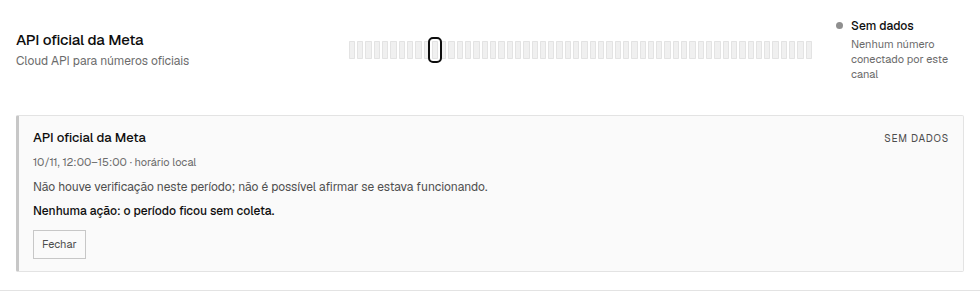
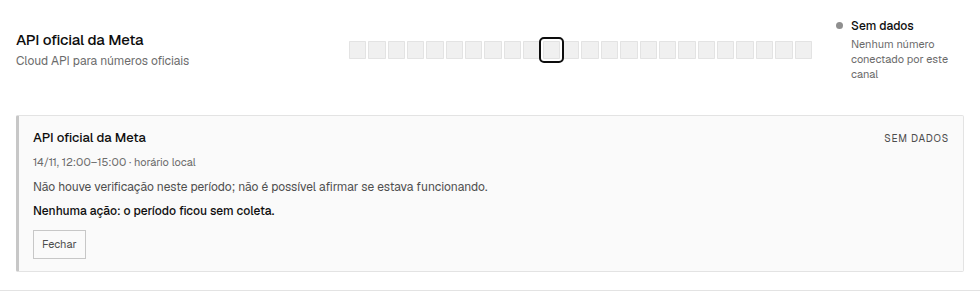
feat(status): limita o historico a 3 dias
O status passa a mostrar 24 faixas de 3 horas, cobrindo os ultimos 3 dias. O detalhe de cada faixa continua com periodo, estado, significado e recomendacao. Atualiza testes, textos, capturas e o tamanho do historico no backend.

diff --git a/manager/dist/status/status.js b/manager/dist/status/status.js
@@ -1,7 +1,7 @@
 /*
  * WhatsAI: pagina publica de status.
  *
- * Le GET /status da API (sem chave) e desenha o estado atual, as faixas de 7 dias e os incidentes. O endpoint
+ * Le GET /status da API (sem chave) e desenha o estado atual, as faixas de 3 dias e os incidentes. O endpoint
  * agrega somente dados de sistema e WhatsApp, sem nomes, numeros, mensagens ou chaves. A pagina atualiza a cada
  * cinco minutos; nao ha timer no servidor.
  */
@@ -188,7 +188,7 @@
     detail.hidden = true;
     detail.setAttribute('aria-live', 'polite');
 
-    for (var i = 0; i < 56; i++) {
+    for (var i = 0; i < 24; i++) {
       var bucket = list[i];
       var state = (bucket && bucket.components && bucket.components[componentId]) || 'no_data';
       if (!STATES[state]) state = 'no_data';
@@ -205,7 +205,7 @@
     }
 
     var wrap = el('div', 'st-bars');
-    var active = 55;
+    var active = 23;
 
     function setActive(index, focus) {
       active = Math.max(0, Math.min(index, slots.length - 1));
@@ -265,7 +265,7 @@
       });
     wrap.setAttribute(
       'aria-label',
-      'Histórico de 7 dias de ' +
+      'Histórico de 3 dias de ' +
         componentName +
         ': ' +
         parts.join(', ') +
@@ -280,7 +280,7 @@
     var head = el('div', 'st-group-head');
     head.append(el('h2', null, name));
     var range = el('div', 'st-range');
-    range.append(el('span', null, '7 dias atrás'), el('span', null, 'Agora'));
+    range.append(el('span', null, '3 dias atrás'), el('span', null, 'Agora'));
     head.append(range);
     return head;
   }

diff --git a/manager/dist/status/index.html b/manager/dist/status/index.html
@@ -21,7 +21,7 @@
     <link rel="preload" href="/assets/fonts/geist-latin-wght-normal.woff2?v=1" as="font" type="font/woff2" crossorigin />
     <link rel="stylesheet" href="/assets/geist.css?v=3" />
     <link rel="stylesheet" href="/assets/tokens.css?v=3" />
-    <link rel="stylesheet" href="/status/status.css?v=5" />
+    <link rel="stylesheet" href="/status/status.css?v=6" />
   </head>
   <body class="st-page">
     <a class="st-skip" href="#conteudo">Pular para o conteúdo</a>
@@ -128,7 +128,7 @@
               <summary>Como consumir o status de forma programática?</summary>
               <p>
                 O JSON público fica em <a href="https://evolution-api-x93o.onrender.com/status">/status</a> na API. Não
-                exige chave e devolve estado atual, componentes, histórico de 7 dias e incidentes recentes.
+                exige chave e devolve estado atual, componentes, histórico de 3 dias e incidentes recentes.
               </p>
             </details>
             <details>
@@ -174,6 +174,6 @@
     </footer>
 
     <noscript>Ative o JavaScript para ver o status atualizado.</noscript>
-    <script src="/status/status.js?v=8" defer></script>
+    <script src="/status/status.js?v=9" defer></script>
   </body>
 </html>

diff --git a/src/api/services/public-status.core.ts b/src/api/services/public-status.core.ts
@@ -91,7 +91,7 @@ const COMPONENT_NAMES: Record<string, string> = {
 };
 
 const BUCKET_MS = 3 * 60 * 60 * 1000;
-const HISTORY_BUCKETS = 56;
+const HISTORY_BUCKETS = 24;
 const INCIDENT_WINDOW_MS = 90 * 24 * 60 * 60 * 1000;
 const MAX_INCIDENTS = 50;
 const DEFAULT_CACHE_TTL_MS = 5 * 60 * 1000;
@@ -531,7 +531,7 @@ export class PublicStatusService {
       history: publicHistory(this.store, now),
       incidents: publicIncidents(this.store, now),
       nextCheckSeconds: 300,
-      historyDays: 7,
+      historyDays: 3,
       bucketHours: 3,
       notes: [...notes(), ...(snapshotFailed ? ['Não foi possível ler todos os componentes agora.'] : [])],
     };

diff --git a/manager/dist/status/status.css b/manager/dist/status/status.css
@@ -1,6 +1,6 @@
 /*
  * WhatsAI: pagina publica de status.
- * A composicao segue a ideia do status.opencode.ai (estado geral, componentes com faixa de 7 dias, incidentes e
+ * A composicao segue a ideia do status.opencode.ai (estado geral, componentes com faixa de 3 dias, incidentes e
  * metodologia), com os tokens, a tipografia e a paleta semantica do WhatsAI. Sem logo, texto, imagem ou CSS de
  * terceiros.
  */
@@ -345,7 +345,7 @@ body.st-page {
 
 .st-bars {
   display: grid;
-  grid-template-columns: repeat(56, minmax(0, 1fr));
+  grid-template-columns: repeat(24, minmax(0, 1fr));
   gap: 2px;
   height: 18px;
   align-items: stretch;

diff --git a/test/unit/public-status.test.ts b/test/unit/public-status.test.ts
@@ -121,7 +121,7 @@ describe('public status', () => {
     assert.equal(componentState(data, 'api'), 'operational');
     assert.equal(componentState(data, 'database'), 'operational');
     assert.equal(componentState(data, 'site'), 'operational');
-    assert.equal(data.history.length, 56);
+    assert.equal(data.history.length, 24);
     assert.equal(data.history.at(-1)?.components['whatsapp-web'], 'operational');
     const json = JSON.stringify(data);
     assert.equal(json.includes('Cliente Confidencial'), false);

diff --git a/README-WHATSAI.md b/README-WHATSAI.md
@@ -292,7 +292,7 @@ Página pública: `/seguranca` (`manager/dist/landing/seguranca.html`), ligada p
 
 A aba **Observabilidade** do manager (`/manager/observability` ou `/manager/instance/:instanceId/observability`) mostra, em um só lugar, storage/consumo/limites de Neon, Render, Vercel e GitHub Actions. O endpoint `GET /observability` exige o header `apikey` (chave global) e usa cache de 60 s; `?refresh=1` força a consulta. Ele não grava nada, mas o cartão **Sistema** lê contagens do Postgres e a saúde OpenAI lê credenciais/bots. A rota antiga `/observability` agora redireciona (308) para a página pública de status.
 
-O **status público** fica em `/status` (página no site) e em `GET /status` (JSON na API), sem chave. Ele lê apenas as visões locais **Sistema** e **WhatsApp**: API, banco, site/painel, WhatsApp Web e API oficial da Meta, sempre em agregado, sem nomes de clientes, números, mensagens, tokens ou chaves. O resultado fica em cache por 5 minutos; o histórico de 7 dias (faixas de 3 horas) e os incidentes de 90 dias são gravados em uma linha de `GlobalSetting` (`public-status:v1`), no máximo uma vez a cada cinco minutos, quando o estado muda ou começa uma faixa nova de 3 horas. Não há timer: a verificação acontece quando alguém consulta a página ou o JSON. Por isso, o histórico começa na primeira consulta e períodos sem consulta aparecem como **Sem dados**, em vez de disponibilidade inventada. Se a leitura falhar, a página mantém o site no ar e não inventa dados: o banco ou o canal sem resposta aparecem como indisponíveis ou sem dados; se a verificação inteira não puder ser montada, cai no fallback degradado. Ela nunca expõe o erro interno. A **Observabilidade do manager continua privada** e é o lugar para diagnosticar Neon, Render, Vercel, OpenAI e consumo. No topo, o estado atual aparece em um cartão com a cor da operação e uma recomendação curta; cada faixa de 3 horas abre o período, o estado, o significado e a ação recomendada.
+O **status público** fica em `/status` (página no site) e em `GET /status` (JSON na API), sem chave. Ele lê apenas as visões locais **Sistema** e **WhatsApp**: API, banco, site/painel, WhatsApp Web e API oficial da Meta, sempre em agregado, sem nomes de clientes, números, mensagens, tokens ou chaves. O resultado fica em cache por 5 minutos; o histórico de 3 dias (faixas de 3 horas) e os incidentes de 90 dias são gravados em uma linha de `GlobalSetting` (`public-status:v1`), no máximo uma vez a cada cinco minutos, quando o estado muda ou começa uma faixa nova de 3 horas. Não há timer: a verificação acontece quando alguém consulta a página ou o JSON. Por isso, o histórico começa na primeira consulta e períodos sem consulta aparecem como **Sem dados**, em vez de disponibilidade inventada. Se a leitura falhar, a página mantém o site no ar e não inventa dados: o banco ou o canal sem resposta aparecem como indisponíveis ou sem dados; se a verificação inteira não puder ser montada, cai no fallback degradado. Ela nunca expõe o erro interno. A **Observabilidade do manager continua privada** e é o lugar para diagnosticar Neon, Render, Vercel, OpenAI e consumo. No topo, o estado atual aparece em um cartão com a cor da operação e uma recomendação curta; cada faixa de 3 horas abre o período, o estado, o significado e a ação recomendada.
 
 | Variável | Uso | Como obter |
 |---|---|---|
@@ -321,7 +321,7 @@ O **status público** fica em `/status` (página no site) e em `GET /status` (JS
 
 ## 11. Registro de decisões
 
-- 16/11/2026: **status público** em `/status` (página no site e JSON em `GET /status`, sem chave), no lugar da antiga página pública de Observabilidade: estado geral, grupos Atendimento e Plataforma, histórico de 7 dias em faixas de 3 horas, incidentes de 90 dias e metodologia. Lê só as visões locais Sistema e WhatsApp, em agregado, sem nomes, números, mensagens ou chaves; cache de 5 minutos e histórico em `GlobalSetting` (`public-status:v1`, sem migration), gravado quando o estado muda ou começa uma faixa nova de 3 horas, sem timer. Sem consulta, o período aparece como "Sem dados". A aba Observabilidade do manager continua privada, com a chave global. `/observability` passa a redirecionar (308) para `/status`.
+- 16/11/2026: **status público** em `/status` (página no site e JSON em `GET /status`, sem chave), no lugar da antiga página pública de Observabilidade: estado geral, grupos Atendimento e Plataforma, histórico de 3 dias em faixas de 3 horas, incidentes de 90 dias e metodologia. Lê só as visões locais Sistema e WhatsApp, em agregado, sem nomes, números, mensagens ou chaves; cache de 5 minutos e histórico em `GlobalSetting` (`public-status:v1`, sem migration), gravado quando o estado muda ou começa uma faixa nova de 3 horas, sem timer. Sem consulta, o período aparece como "Sem dados". A aba Observabilidade do manager continua privada, com a chave global. `/observability` passa a redirecionar (308) para `/status`.
 - Plano Render free por opção de custo; upgrade para Starter quando houver clientes pagantes.
 - Manager sem fonte: patches aplicados direto no bundle (seção 4).
 - Integrações habilitadas em `render.yaml`.

diff --git a/readmes/pr/status-cartao/DESIGN.md b/readmes/pr/status-cartao/DESIGN.md
@@ -5,7 +5,7 @@
 A página tinha a informação certa, mas a hierarquia estava errada:
 
 - o estado geral era um título solto, com um rótulo mono pequeno (“Verificado agora mesmo”) que parecia mais um metadado do que o estado da operação;
-- as faixas de 7 dias eram `span` com `title`. No celular, o `title` não aparece; no teclado, não havia como abrir; clicar não fazia nada;
+- as faixas de histórico eram `span` com `title`. No celular, o `title` não aparece; no teclado, não havia como abrir; clicar não fazia nada;
 - a legenda dizia o que cada cor significava, mas não o que aconteceu em um período específico.
 
 O pedido foi direto: remover o rótulo, transformar o estado atual em um cartão com cor de operação e fazer cada faixa mostrar a informação dela.
@@ -81,7 +81,7 @@ O grupo de faixas tem um único ponto de tabulação. Ao receber foco, ele leva 
 
 Cada botão tem `aria-label` com o período e o estado, `aria-pressed` para a faixa escolhida e `aria-controls` para o detalhe. O detalhe é `aria-live="polite"`.
 
-Isso evita 280 paradas de tabulação (56 faixas em 5 componentes) e mantém a navegação por teclado utilizável.
+Isso evita 120 paradas de tabulação (24 faixas em 5 componentes) e mantém a navegação por teclado utilizável.
 
 ## 7. Estados e casos de borda
 
@@ -94,7 +94,7 @@ Isso evita 280 paradas de tabulação (56 faixas em 5 componentes) e mantém a n
 ## 8. O que não foi feito
 
 - Tooltip flutuante ou popover: menos legível no celular e mais difícil de posicionar.
-- 280 botões tabuláveis: pior para quem usa teclado.
+- 120 botões tabuláveis: pior para quem usa teclado.
 - “Tudo operacional” verde para períodos sem coleta: inventaria disponibilidade.
 - Agrupar transições em um incidente ou mostrar uma nota manual: fica para a próxima evolução.
 - Monitor externo: o histórico ainda depende de alguém abrir a página; está registrado como próximo passo.

diff --git a/readmes/pr/status-cartao/README.md b/readmes/pr/status-cartao/README.md
@@ -5,7 +5,7 @@
 Duas mudanças na página pública `/status`, no mesmo PR para revisão:
 
 1. **O topo vira um cartão de estado.** Sai o rótulo “Verificado agora mesmo” e o título solto. Entra um cartão com fundo e borda na cor da operação atual, com estado, título, resumo, uma recomendação curta, o horário da atualização e a cadência de verificação.
-2. **As faixas de 7 dias passam a responder ao clique.** Cada uma das 56 faixas por componente agora abre um detalhe com o período, o estado, o que ele significa e o que fazer. O detalhe vale para faixa verde, âmbar, vermelha e cinza.
+2. **As faixas de 3 dias passam a responder ao clique.** Cada uma das 24 faixas por componente agora abre um detalhe com o período, o estado, o que ele significa e o que fazer. O detalhe vale para faixa verde, âmbar, vermelha e cinza.
 
 O detalhe abre embaixo da linha do componente, sem popup e sem sair da página. Também funciona por toque e por teclado.
 
@@ -42,7 +42,7 @@ O detalhe de uma faixa cinza é explícito: não houve coleta, então a página 
 
 ## Teclado e acessibilidade
 
-- Um ponto de tabulação por componente, não 56. O grupo de faixas recebe o foco e abre a faixa atual.
+- Um ponto de tabulação por componente, não 24. O grupo de faixas recebe o foco e abre a faixa atual.
 - Setas esquerda/direita escolhem a faixa; Home e End vão aos extremos; Enter e Espaço abrem o detalhe.
 - `aria-pressed` marca a faixa escolhida; `aria-controls` liga a faixa ao detalhe; o detalhe é uma região `aria-live="polite"`.
 - O texto do estado não depende só da cor. O contraste usa os tokens existentes.

diff --git a/readmes/GUIA-DO-PROJETO.md b/readmes/GUIA-DO-PROJETO.md
@@ -414,7 +414,7 @@ flowchart TD
 - `GET /admin/db-activity` e a ferramenta MCP `get_database_info` mostram o que acordou o banco (só verbo/tabela,
   sem valores) e não gravam nada.
 - **Status público** em `/status` (página) e `GET /status` (JSON, sem chave): lê só as visões locais Sistema e
-  WhatsApp, em agregado; cache de 5 minutos; histórico de 7 dias em faixas de 3 horas e incidentes de 90 dias em
+  WhatsApp, em agregado; cache de 5 minutos; histórico de 3 dias em faixas de 3 horas e incidentes de 90 dias em
   `GlobalSetting` (`public-status:v1`), gravados quando o estado muda ou começa uma faixa nova de 3 horas, sem timer.
   Sem nomes, números, mensagens, tokens ou chaves. O topo é um cartão com a cor do estado e uma recomendação; cada
   faixa de 3 horas abre o período, o estado, o significado e a ação. `/observability` redireciona (308) para `/status`;

diff --git a/readmes/pr/status-publico/DESIGN.md b/readmes/pr/status-publico/DESIGN.md
@@ -1,3 +1,5 @@
+> Nota: o histórico passou de 7 para 3 dias (24 faixas de 3 horas) no PR #181; este documento registra a versão inicial.
+
 # Decisões de design e arquitetura do status público
 
 ## 1. Por que uma página separada, e não a Observabilidade

diff --git a/readmes/pr/status-publico/README.md b/readmes/pr/status-publico/README.md
@@ -1,3 +1,5 @@
+> Nota: o histórico passou de 7 para 3 dias (24 faixas de 3 horas) no PR #181; este documento registra a versão inicial.
+
 # Status público do WhatsAI
 
 ## O que este PR faz
